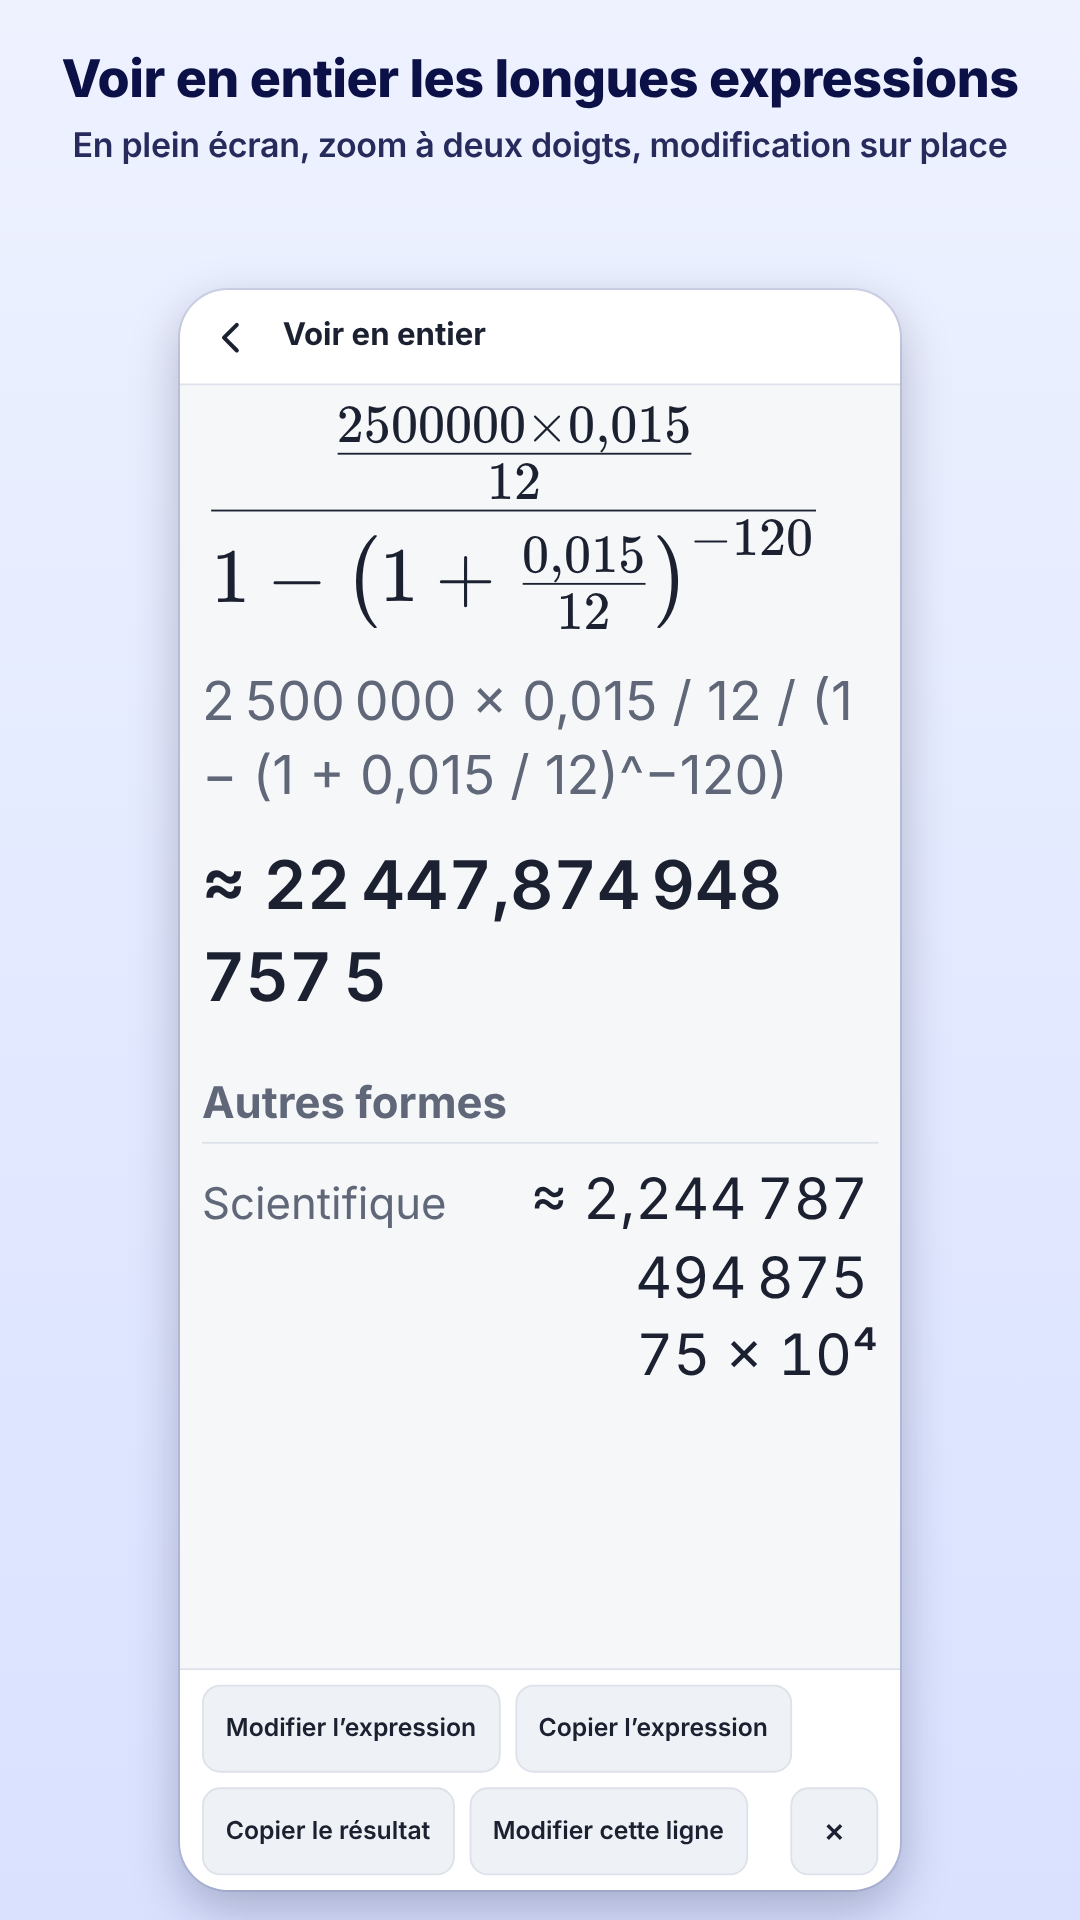
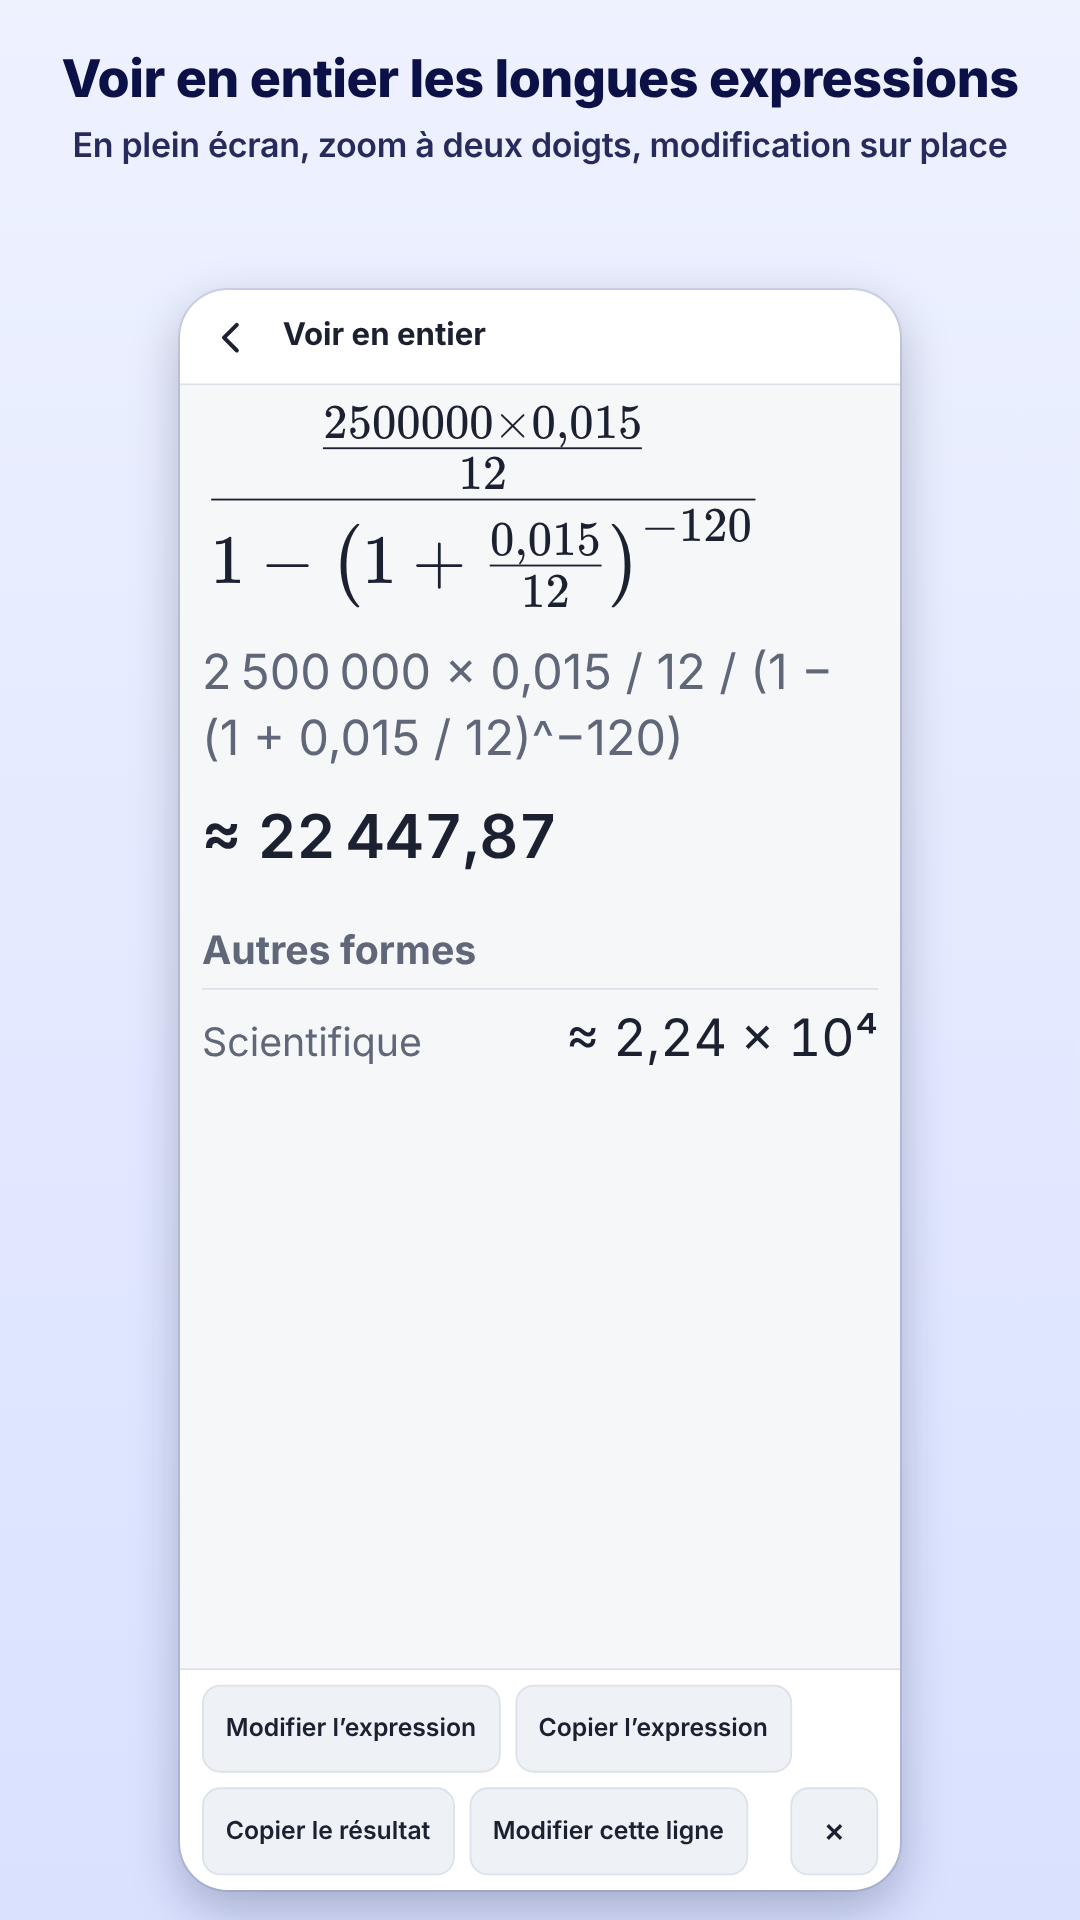
Store 1.16: the 5th phone picture "View whole" again, its answer on one line and its other form not cut in two in every set (the review of 11-25 14:27)
- ×1.5 instead of ×1.67, with the decimal places set to 2 as for money (≈ 22,447.87; Scientific ≈ 2.24 × 10⁴): with 15 digits the answer took two lines at ×1.67 and the scientific form two or three lines, in German even at ×1; measured in the 10 sets at ×1.2, 1.3, 1.5 and 1.6: up to ×1.5 the answer and the other form each on one line and the formula as wide as the screen (×1.6: German wider than the screen)
- qcalc-page.js wholeView(page, set, zoom); shots.js: the scene with its settings and zoom; README.md: ×1.5, 2 decimal places

diff --git a/store/tools/qcalc-page.js b/store/tools/qcalc-page.js
@@ -267,9 +267,10 @@ async function convertMoney(page, set) {
 }
 // (1.16.3, the owner's choice of 11-25 11:40: the 5th phone picture) "View whole" of a long line: the monthly payment of a loan
 // (2,500,000 at 1.5 % for 120 months; the comma decimal where the region has it), opened with ⤢ under its number, made larger
-// with two fingers (real touches, ×1.67: the formula still as wide as the screen)
+// with two fingers (real touches; zoom: how much larger)
 const loanExpr = (set) => (COMMA[set] ? '2500000 × 0,015 / 12 / (1 − (1 + 0,015 / 12)^−120)' : '2500000 × 0.015 / 12 / (1 − (1 + 0.015 / 12)^−120)');
-async function wholeView(page, set) {
+async function wholeView(page, set, zoom) {
+  const z = zoom || 1.25;
   for (const x of ['1280 × 3', loanExpr(set)]) { await type(page, x); await eq(page); }
   await page.locator('#history .h-item.wv-on .h-wv').last().click(); await sleep(1400);
   const b = await page.locator('.panel.open .wv-box').boundingBox();
@@ -278,9 +279,9 @@ async function wholeView(page, set) {
   const pts = (d) => [{ x: cx - d / 2, y: cy, id: 1 }, { x: cx + d / 2, y: cy, id: 2 }];
   await cdp.send('Input.dispatchTouchEvent', { type: 'touchStart', touchPoints: [pts(90)[0]] }); await sleep(40);
   await cdp.send('Input.dispatchTouchEvent', { type: 'touchStart', touchPoints: pts(90) }); await sleep(40);
-  for (let i = 1; i <= 10; i++) { await cdp.send('Input.dispatchTouchEvent', { type: 'touchMove', touchPoints: pts(90 + 60 * i / 10) }); await sleep(30); }
+  for (let i = 1; i <= 10; i++) { await cdp.send('Input.dispatchTouchEvent', { type: 'touchMove', touchPoints: pts(90 + 90 * (z - 1) * i / 10) }); await sleep(30); }
   await sleep(300);
-  await cdp.send('Input.dispatchTouchEvent', { type: 'touchEnd', touchPoints: [pts(150)[1]] }); await sleep(40);
+  await cdp.send('Input.dispatchTouchEvent', { type: 'touchEnd', touchPoints: [pts(90 * z)[1]] }); await sleep(40);
   await cdp.send('Input.dispatchTouchEvent', { type: 'touchEnd', touchPoints: [] });
   await cdp.detach();
   await sleep(900);

diff --git a/store/tools/shots.js b/store/tools/shots.js
@@ -88,8 +88,11 @@ const SCENES = {
   stats: { dark: false, run: Q.statsTool },
   'stats-curve': { dark: false, run: Q.statsCurve },
   languages: { dark: true, run: Q.langDark },
-  // (1.16.3) "View whole" of a long line (the monthly payment of a loan), opened with ⤢ and made larger with two fingers
-  'view-whole': { dark: false, run: Q.wholeView }
+  // (1.16.3) "View whole" of a long line (the monthly payment of a loan), opened with ⤢ and made larger with two fingers (×1.5); the
+  // decimal places set to 2 as for money ((the review of 11-25 14:27) the answer on one line and the other form not cut in two in
+  // every set: with 15 digits the scientific form took two lines even at ×1 in German; with 2 places all fit up to ×1.5, and the
+  // formula still fits the width)
+  'view-whole': { dark: false, settings: { max_decimals: 2 }, run: (page, set) => Q.wholeView(page, set, 1.5) }
 };
 // the rectangle of an element in the top panel (to cut it out of a picture), from its top to the bottom of another
 const clipOf = (page, from, to) => page.evaluate(([from, to]) => {

diff --git a/store/screenshots-1.16/README.md b/store/screenshots-1.16/README.md
@@ -31,7 +31,7 @@
 | スマートフォン | 2 | phone-2-margin.png | 信用取引：維持率と追証の株価（QCalc Pro） |
 | スマートフォン | 3 | phone-3-2d-to-3d.png | 2D グラフの面を回して立体と体積（上が 2D、下が GPU の 3D。QCalc Pro） |
 | スマートフォン | 4 | phone-4-notes-table.png | 計算メモの表のモード（列の式・合計・平均。QCalc Pro） |
-| スマートフォン | 5 | phone-5-view-whole.png | 長い式の「全体を見る」（行の番号の下の ⤢ から。ローンの毎月の返済額の式を 2 本指で大きく。式を直す・式をコピー・結果をコピー・この行を直す） |
+| スマートフォン | 5 | phone-5-view-whole.png | 長い式の「全体を見る」（行の番号の下の ⤢ から。ローンの毎月の返済額の式を 2 本指で 1.5 倍に。小数点以下の最大桁数は 2。式を直す・式をコピー・結果をコピー・この行を直す） |
 | スマートフォン | 6 | phone-6-money.png | 単位・通貨の換算（その地域の通貨） |
 | スマートフォン | 7 | phone-7-stats-pair.png | 統計：ヒストグラムと回帰曲線（2 次、決定係数。直線以外の曲線は QCalc Pro） |
 | スマートフォン | 8 | phone-8-languages.png | 7 言語・ダークモード・ネットなしで動く |
@@ -55,7 +55,7 @@
 | スマートフォン | 2 | phone-2-2d-to-3d.png | 2D グラフの面を回して立体と体積（上が 2D、下が GPU の 3D。QCalc Pro） |
 | スマートフォン | 3 | phone-3-notes-table.png | 計算メモの表のモード（列の式・合計・平均。QCalc Pro） |
 | スマートフォン | 4 | phone-4-possize.png | 株・投資：損切りから株数（QCalc Pro） |
-| スマートフォン | 5 | phone-5-view-whole.png | 長い式の「全体を見る」（行の番号の下の ⤢ から。ローンの毎月の返済額の式を 2 本指で大きく。式を直す・式をコピー・結果をコピー・この行を直す） |
+| スマートフォン | 5 | phone-5-view-whole.png | 長い式の「全体を見る」（行の番号の下の ⤢ から。ローンの毎月の返済額の式を 2 本指で 1.5 倍に。小数点以下の最大桁数は 2。式を直す・式をコピー・結果をコピー・この行を直す） |
 | スマートフォン | 6 | phone-6-money.png | 単位・通貨の換算（その地域の通貨） |
 | スマートフォン | 7 | phone-7-stats-pair.png | 統計：ヒストグラムと回帰曲線（2 次、決定係数。直線以外の曲線は QCalc Pro） |
 | スマートフォン | 8 | phone-8-languages.png | 7 言語・ダークモード・ネットなしで動く |
